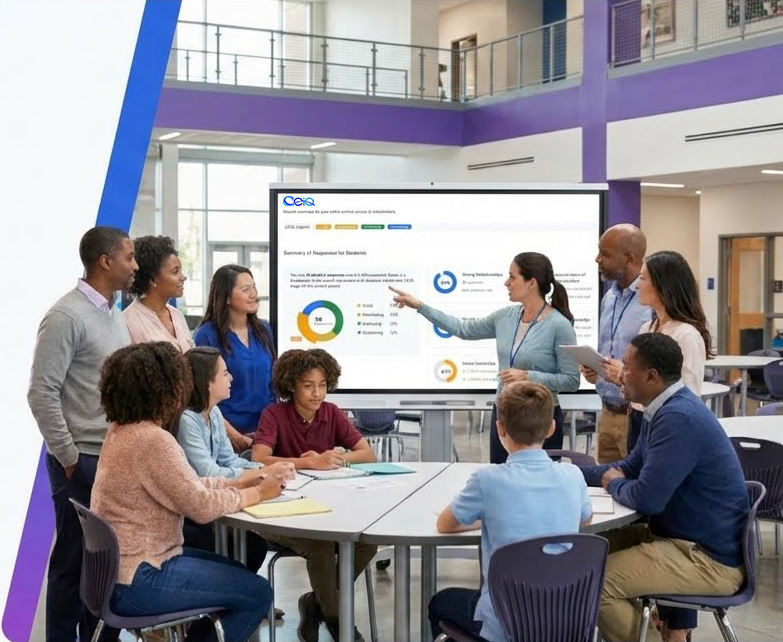
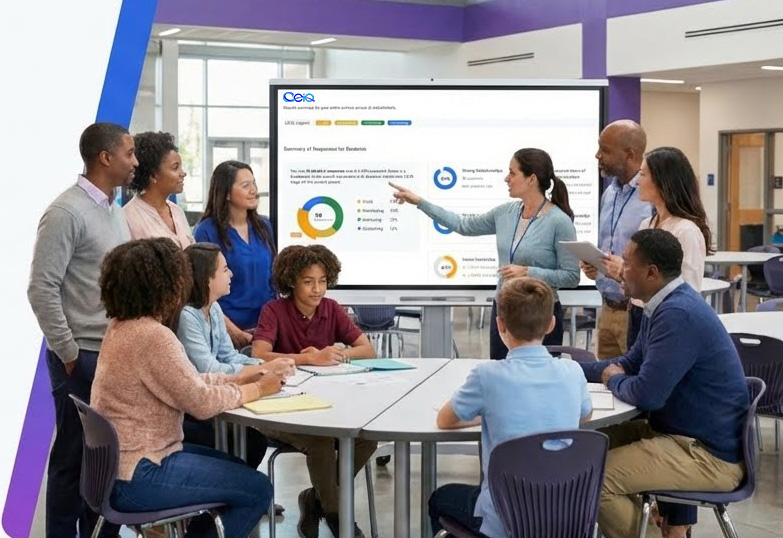
update hero images and comment out proof list in index.html

diff --git a/index.html b/index.html
@@ -1312,7 +1312,7 @@
                 design, data analysis, and actionable insights driven by AI technology and aligned
                 with your state's engagement standards built for individual schools and districts.
               </p>
-              <ul class="hero-proof-list">
+              <!-- <ul class="hero-proof-list">
                 <li>
                   <span class="hero-proof-icon">1</span>
                   Correlate individual community actions to attendance, retention, and academic
@@ -1328,7 +1328,7 @@
                   Build a predictive blueprint that forecasts which programs will improve climate
                   and student success.
                 </li>
-              </ul>
+              </ul> -->
               <div class="hero-actions">
                 <a href="#" class="btn btn-primary">Request a Demo</a>
                 <button id="videoBtn" class="btn btn-video">
